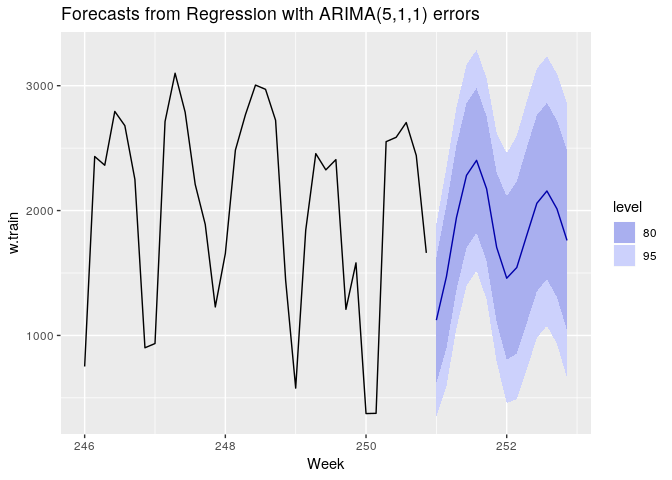
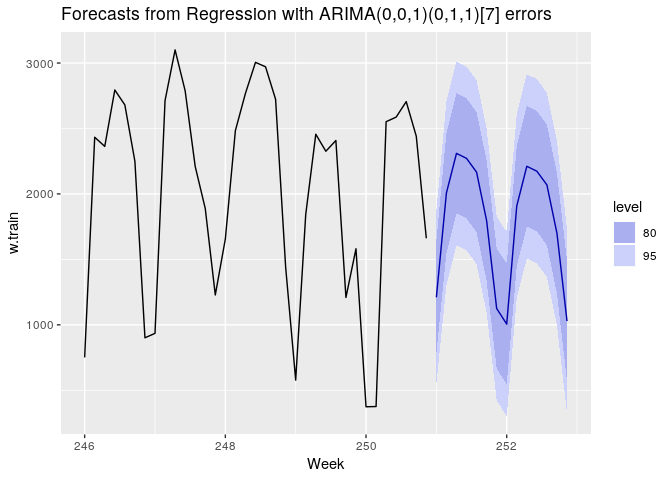
might be done

diff --git a/code.md b/code.md
@@ -82,31 +82,29 @@ forecast based on TBATS
 Arima with fourier for annual and holiday dummies
 -------------------------------------------------
 
-    ## Note: method with signature 'timeDate#numeric' chosen for function '-',
-    ##  target signature 'timeDate#Period'.
-    ##  "ANY#Period" would also be valid
-
 ![](code_files/figure-markdown_github/holi-1.png)
 
-    ##                      ME     RMSE      MAE        MPE     MAPE      MASE
-    ## Training set   1.720426 388.2511 294.9296 -11.490982 27.74386 0.7796668
-    ## Test set     204.791378 535.5297 447.2650   3.894603 24.40478 1.1823760
-    ##                     ACF1 Theil's U
-    ## Training set -0.03849532        NA
-    ## Test set      0.45367469  1.009078
+    ##                      ME     RMSE      MAE       MPE     MAPE      MASE
+    ## Training set   1.470022 333.8079 256.5973 -9.762581 24.82407 0.6783327
+    ## Test set     270.181435 363.6535 320.9106 12.392281 15.82795 0.8483493
+    ##                    ACF1 Theil's U
+    ## Training set 0.07888808        NA
+    ## Test set     0.35149235 0.7012657
 
 ![](code_files/figure-markdown_github/holi-2.png)
 
     ## 
     ##  Ljung-Box test
     ## 
-    ## data:  Residuals from Regression with ARIMA(5,1,1) errors
-    ## Q* = 327.95, df = 3, p-value < 2.2e-16
+    ## data:  Residuals from Regression with ARIMA(0,0,1)(0,1,1)[7] errors
+    ## Q* = 130.88, df = 3, p-value < 2.2e-16
     ## 
-    ## Model df: 28.   Total lags used: 31
+    ## Model df: 17.   Total lags used: 20
 
 Combine the forecasts
 ---------------------
 
-    ##                ME     RMSE      MAE      MPE     MAPE      ACF1 Theil's U
-    ## Test set 211.2991 404.4188 312.9664 8.180351 14.37878 0.2756185  0.679276
+    ##                ME     RMSE      MAE      MPE    MAPE      ACF1 Theil's U
+    ## Test set 191.1555 332.2845 296.1437 7.685097 15.0722 0.3769435 0.6222585
+
+![](code_files/figure-markdown_github/plots-1.png)
